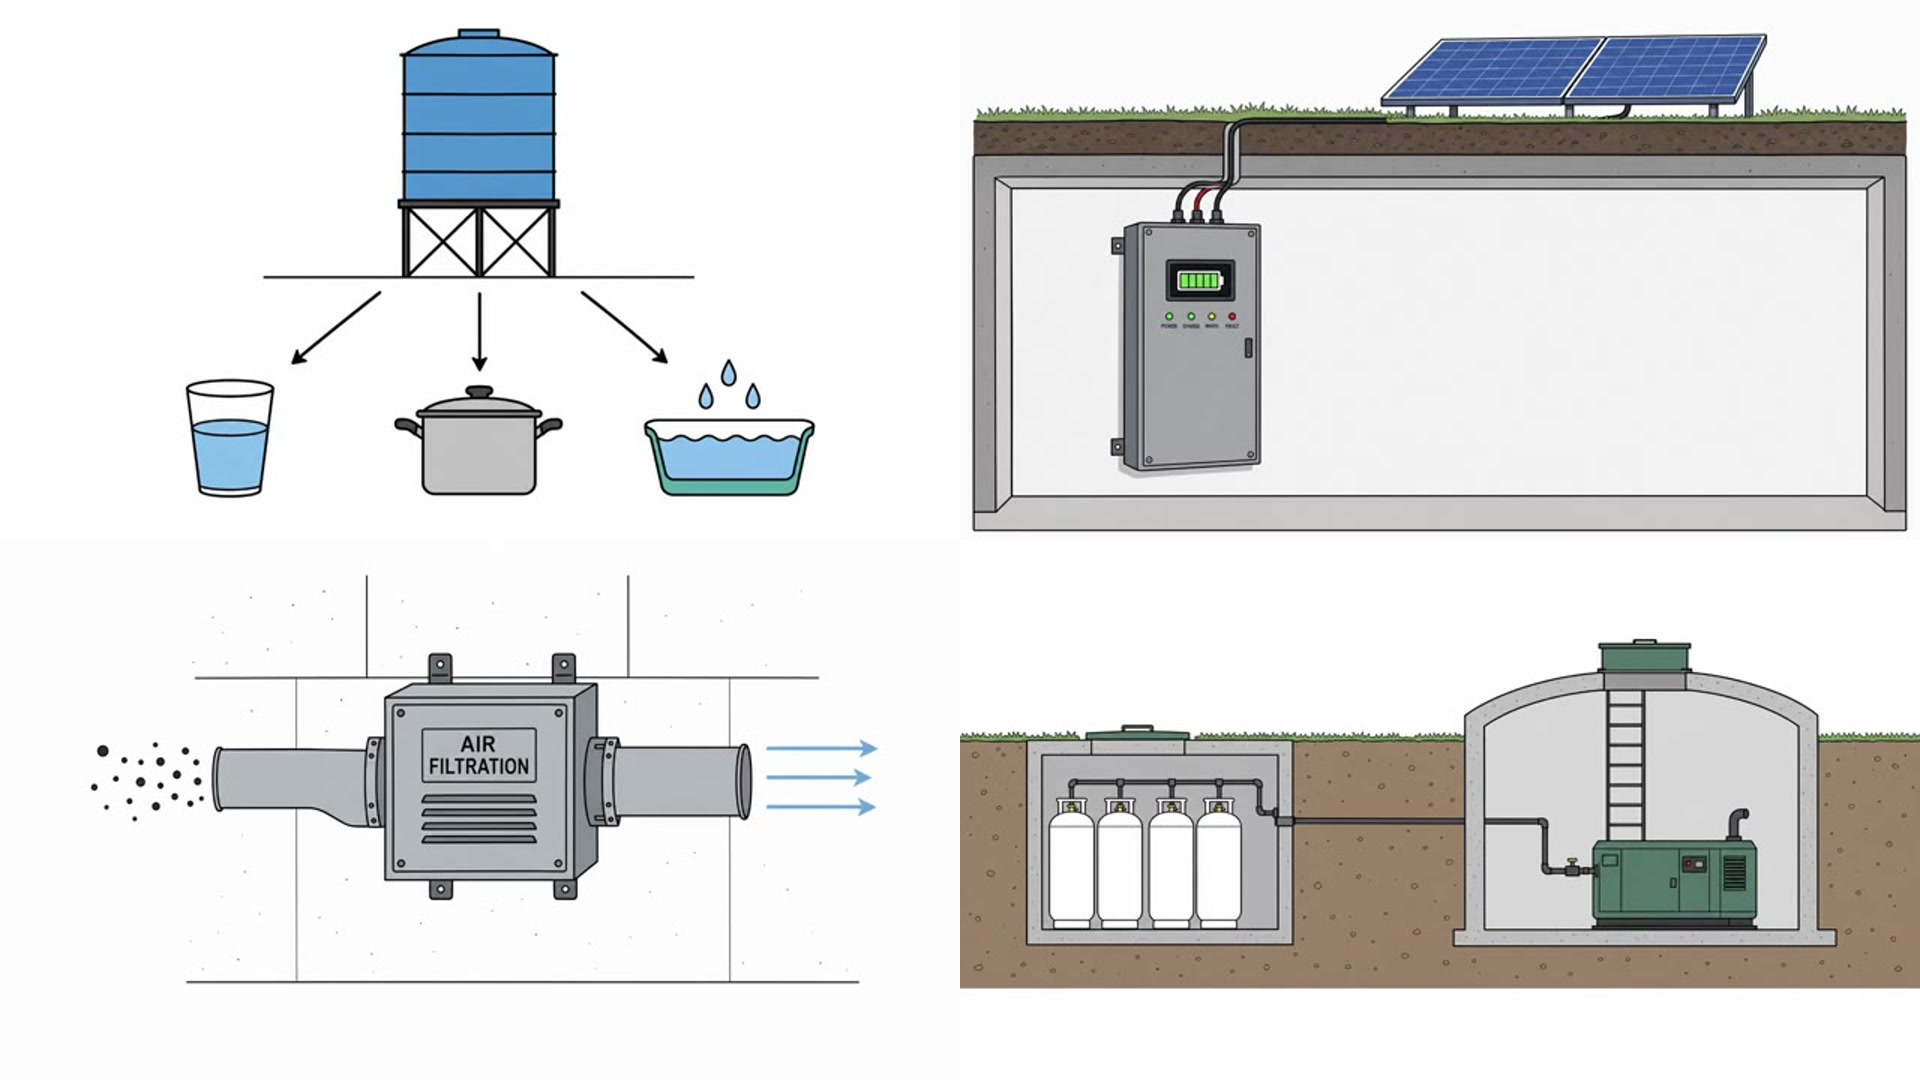
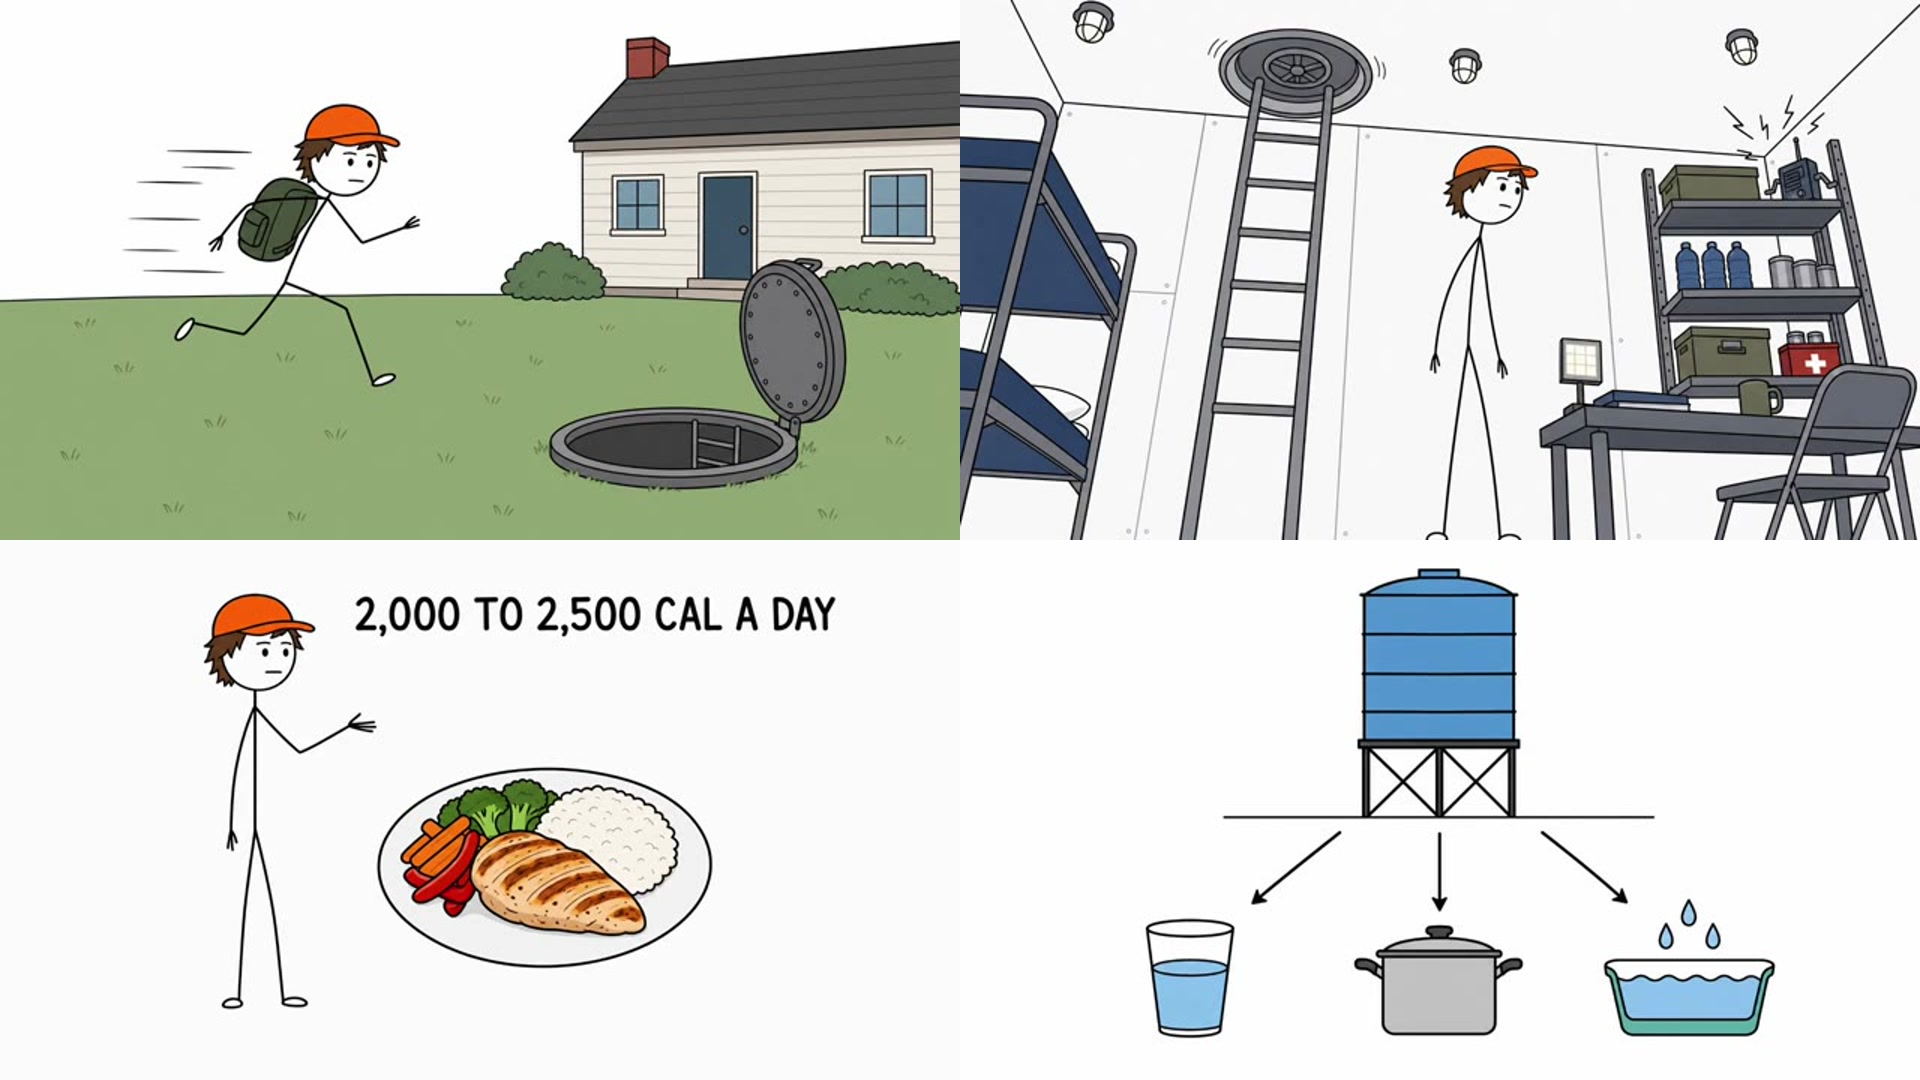
Style ref: ordinary competitor scenes; rule to ignore the competitor's character
Claude-Session: https://claude.ai/code/session_016tP1vLYDZvEQHopVS6r79J

diff --git a/.claude/skills/survival-video/scripts/images.py b/.claude/skills/survival-video/scripts/images.py
@@ -35,7 +35,9 @@ REF_RULES = {
     "location": "The setting must match the LOCATION reference image: same layout, rock shapes, walls and objects.",
     "style": ("The STYLE reference image is given ONLY to understand the drawing style: line weight, colouring and "
               "shading. Do NOT transfer anything from it into this picture: no objects, machines, tanks, pipes, shelves, "
-              "buildings, labels, text or layout. Draw only what the SCENE describes."),
+              "buildings, labels, text or layout. Ignore the person in the STYLE reference completely: never take his "
+              "cap, hair, face, clothes or any other part of his look; the only hero is the one in the HERO reference. "
+              "Draw only what the SCENE describes."),
 }
 
 

diff --git a/.claude/skills/survival-video/SKILL.md b/.claude/skills/survival-video/SKILL.md
@@ -25,9 +25,10 @@ Talk to the user in Russian; the narration itself is in English.
 - `style/style.json` — the channel's fixed picture style: `style_block`, `shot_types`,
   `location_prompt`. Do not rewrite it; change it only when the user asks.
 - `refs/hero.png` — the hero (M1), reused in every video.
-- `refs/style_competitor.jpg` — style reference: a 2×2 collage of competitor frames from
-  `style/reference.mp4` without their character (line weight, colouring, shading). Attach
-  it to every scene; the STYLE rule forbids copying its objects.
+- `refs/style_competitor.jpg` — style reference: a 2×2 collage of ordinary competitor scenes
+  from `style/reference.mp4` (outdoors, interior, character with an object and text, a
+  diagram). The STYLE rule says: style only, copy no objects, and ignore their character
+  completely — the only hero is `refs/hero.png`.
 
 ## 0. Session start: analyse the script (always, before writing anything)
 
